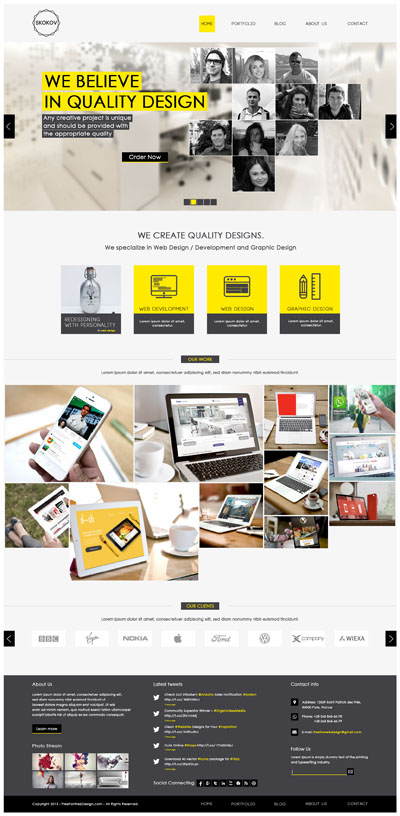
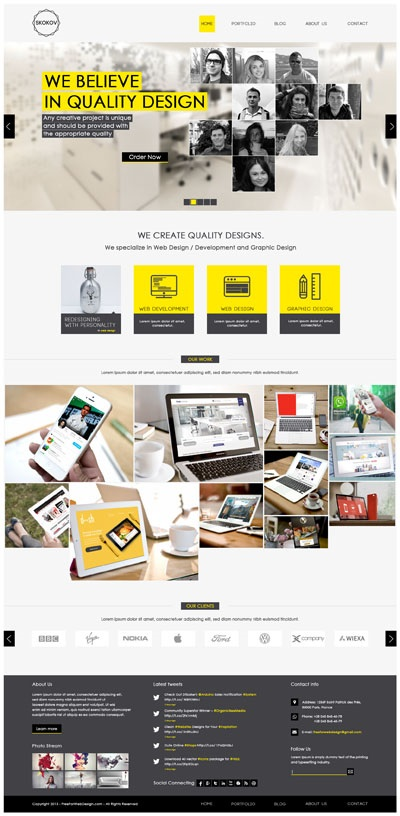
slidesText

diff --git a/style.css b/style.css
@@ -3,9 +3,11 @@
        src: url(fonts/CodeLight.otf);
    }
    
-   body {
-/*       margin: 0;*/
+   @font-face {
+       font-family: CenturyGothic;
+       src: url(fonts/CenturyGothic.TTF)
    }
+  
    
    .wrapper {
        max-width: 1630px;
@@ -68,20 +70,80 @@
        display: none;
        cursor: pointer;
    }
-
    /*---------------Slides-------------------*/
    
    .slideshow-container {
-/*       max-width: 1630px;*/
        position: relative;
        margin: auto;
    }
    
-   .mySlides>h1 {
+   .textSlides>h1 {
+       font: bold 4.375vw CenturyGothic;
+       line-height: 1.1em;
+       text-transform: uppercase;
+       background-color: #ffea00;
        position: absolute;
-       top: 10%;
-       left: 30%;
-       font-size: 4.375vw;
+       top: 7.7vw;
+       left: 10.5vw;
+       padding: 0 0.6vw;
+   }
+   
+   .textSlides1>h1 {
+       font: bold 4.375vw CenturyGothic;
+       line-height: 1.1em;
+       text-transform: uppercase;
+       background-color: #ffea00;
+       position: absolute;
+       top: 13vw;
+       left: 10.5vw;
+       padding: 0 0.6vw;
+   }
+   
+   .textSlidesAbout1 {
+       font: 1.5vw CenturyGothic;
+       line-height: 1.4em;
+       background-color: #414146;
+       color: #ffffff;
+       position: absolute;
+       top: 18.5vw;
+       left: 10.5vw;
+       padding: 0 0.4vw;
+   }
+   
+   .textSlidesAbout2 {
+       font: 1.5vw CenturyGothic;
+       line-height: 1.4em;
+       background-color: #414146;
+       color: #ffffff;
+       position: absolute;
+       top: 20.7vw;
+       left: 10.5vw;
+       padding: 0 0.4vw;
+   }
+   
+   .textSlidesAbout3 {
+       font: 1.5vw CenturyGothic;
+       line-height: 1.4em;
+       background-color: #414146;
+       color: #ffffff;
+       position: absolute;
+       top: 22.9vw;
+       left: 10.5vw;
+       padding: 0 0.4vw;
+   }
+   
+   .mySlides>input {
+       cursor: pointer;
+       font: 1.5vw CenturyGothic;
+       position: absolute;
+       top: 28vw;
+       left: 30.8vw;
+       background: #000000;
+       color: #ffffff;
+       border-color: black;
+       border-bottom-color: #ffea00;
+       border-bottom-width: 3px;
+       padding: 0.1vw 1.4vw;
    }
    
    .mySlides>img {
@@ -92,21 +154,17 @@
    .next {
        cursor: pointer;
        position: absolute;
-       top: 47%;
+       top: 45%;
        width: auto;
-/*       margin-top: -22px;*/
-       padding: 1.2vw 0.5vw;
+       padding: 1.5vw 0.6vw;
        background-color: #000000;
        color: white;
        font-weight: normal;
        font-size: 2vw;
-       /*    transition: 0.6s ease;*/
-       /*    border-radius: 0 3px 3px 0;*/
    }
    
    .next {
        right: 1px;
-       /*    border-radius: 3px 0 0 3px;*/
    }
    
    .prev:hover,
@@ -162,7 +220,10 @@
            opacity: 1;
        }
    }
-   
+
+
+/*----------------@media*------------------*/
+
    @media screen and (max-width: 1025px) {
        .menu {
            display: none;
@@ -189,7 +250,6 @@
        .menu li {
            float: none;
            margin: 0;
-/*           z-index: 100;*/
        }
        .menuToggle {
            float: right;
@@ -203,5 +263,65 @@
        }
        .slideshow-container {
            z-index: 0;
+       }
+   }
+   
+   @media (min-width: 1630px) {
+       .textSlides>h1 {
+           font: bold 70px CenturyGothic;
+           line-height: 1.1em;
+           text-transform: uppercase;
+           background-color: #ffea00;
+           position: absolute;
+           top: 18.25%;
+           left: 10.7%;
+           padding: 0 0.6vw;
+       }
+       .textSlides1>h1 {
+           font: bold 70px CenturyGothic;
+           line-height: 1.1em;
+           text-transform: uppercase;
+           background-color: #ffea00;
+           position: absolute;
+           top: 30.3%;
+           left: 10.7%;
+           padding: 0 0.6vw;
+       }
+       .textSlidesAbout1 {
+           font: 24px CenturyGothic;
+           line-height: 1.4em;
+           background-color: #414146;
+           color: #ffffff;
+           position: absolute;
+           top: 43%;
+           left: 10.7%;
+           padding: 0 0.4vw;
+       }
+       .textSlidesAbout2 {
+           font: 24px CenturyGothic;
+           line-height: 1.4em;
+           background-color: #414146;
+           color: #ffffff;
+           position: absolute;
+           top: 48%;
+           left: 10.7%;
+           padding: 0 0.4vw;
+       }
+       .textSlidesAbout3 {
+           font: 24px CenturyGothic;
+           line-height: 1.4em;
+           background-color: #414146;
+           color: #ffffff;
+           position: absolute;
+           top: 53%;
+           left: 10.7%;
+           padding: 0 0.4vw;
+       }
+       .mySlides>input {
+           font: 24px  CenturyGothic;
+           position: absolute;
+           top: 65%;
+           left: 30.8%;
+           padding: 0.1vw 1.4vw;
        }
    }

diff --git a/index.html b/index.html
@@ -28,35 +28,42 @@
                 </div>
             </div>
         </nav>
-
         <div class="slideshow-container">
-            <div class="mySlides">
-                <h1>We believe <br> in quality design</h1>
+            <div class="mySlides fade">
+                <div class="textSlides">
+                    <h1>We believe</h1>
+                </div>
+                <div class="textSlides1">
+                    <h1>in quality design</h1>
+                </div>
+                <div class="textSlidesAbout1">
+                    <p>Any creative project is unique</p>
+                </div>
+                <div class="textSlidesAbout2">
+                    <p>and should be provided with</p>
+                </div>
+                <div class="textSlidesAbout3">
+                    <p>the appropriate quality</p>
+                </div>
                 <img src="image/slider0.png">
+                <input type="button" value="Order Now">
             </div>
-
-            <div class="mySlides">
+            <div class="mySlides fade">
                 <img src="image/slider1.png">
             </div>
-
-            <div class="mySlides">
+            <div class="mySlides fade">
                 <img src="image/slider2.png">
             </div>
 
-            <div class="mySlides">
+            <div class="mySlides fade">
                 <img src="image/slider3.png">
             </div>
 
-            <div class="mySlides">
+            <div class="mySlides fade">
                 <img src="image/slider4.png">
             </div>
-
-
             <a class="prev" onclick="plusSlides(-1)">&#10094</a>
             <a class="next" onclick="plusSlides(1)">&#10095</a>
-
-<!--            <br>-->
-
             <div class="navMenu">
                 <span class="dot" onclick="currentSlide(1)"></span>
                 <span class="dot" onclick="currentSlide(2)"></span>
